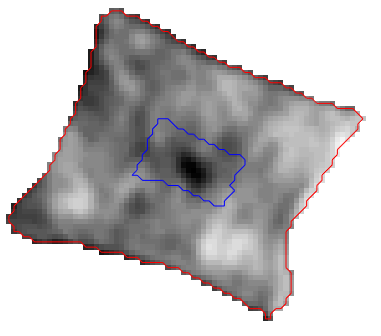
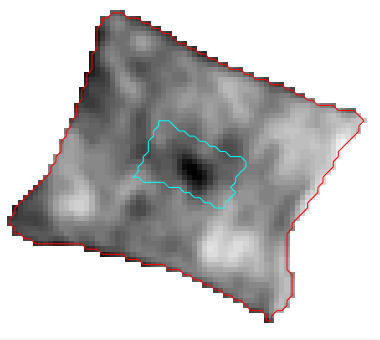
Imagens dos ROIs reduzidos

diff --git a/CODIGOS/BaseVFF/generateDatasets.m b/CODIGOS/BaseVFF/generateDatasets.m
@@ -187,7 +187,7 @@ for i = 1:length(percentages)
         imshow(plotImage);
         hold on;
         plot(imageBoundary(:, 2), imageBoundary(:, 1), 'r');
-        plot(croppedImageBoundary(:, 2), croppedImageBoundary(:, 1), 'b');
+        plot(croppedImageBoundary(:, 2), croppedImageBoundary(:, 1), 'c');
         % legend("Contorno original", "Contorno reduzido");
         hold off;
         
